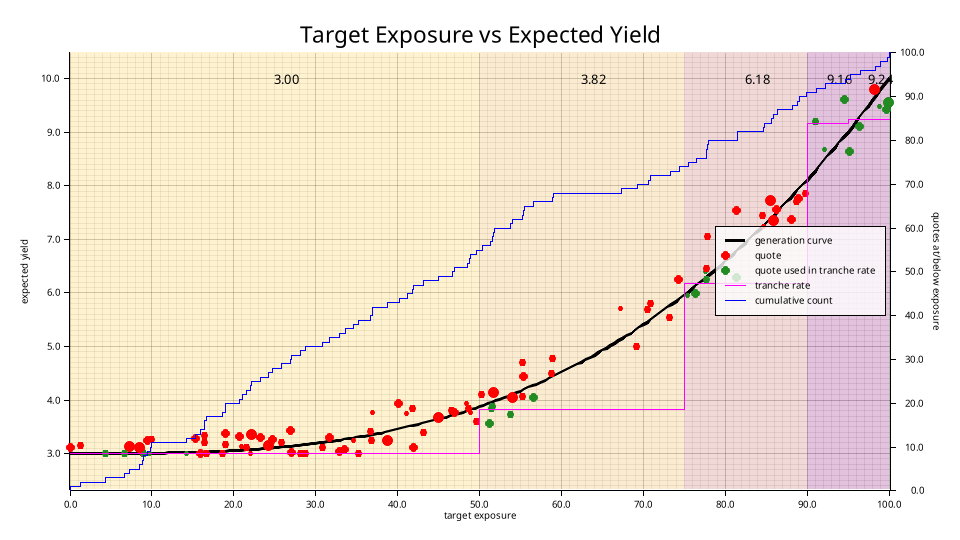
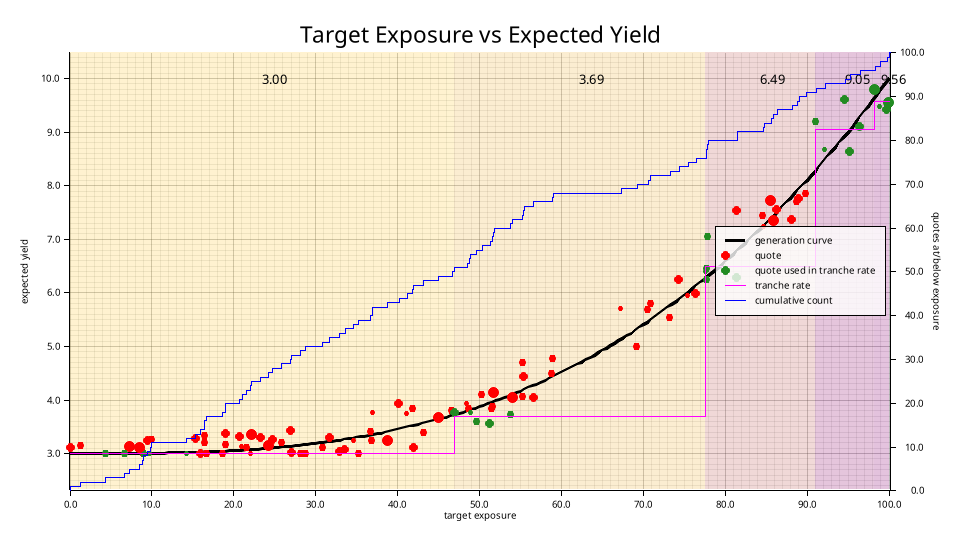
full utilization wip

diff --git a/src/tranche.rs b/src/tranche.rs
@@ -13,82 +13,63 @@ pub struct TrancheOrder {
     pub sample: Vec<Quote>,
 }
 
-/// Nominal band edges as fractions of the exposure axis, mortgage-style:
-/// a fat bottom tranche (the safe 50%), then progressively smaller,
-/// riskier tranches toward the top — on round numbers (50/25/15/5/5). The
-/// former top tranche (90-100) is now split in half (90-95/95-100).
+/// Tranche boundaries as fractions of *total accepted liquidity*
+/// (`sum of every quote's size`), mortgage-style: a fat bottom tranche
+/// (the safe 50% of capital), then progressively smaller, riskier
+/// tranches toward the top (50/25/15/5/5). There's no absolute/global
+/// cap — the boundary nominally at fraction `f` always has exactly `f` of
+/// total liquidity below it (protecting it) and `1 - f` above it (at risk
+/// first, in a loss), no matter how much total liquidity there actually
+/// is.
 const BAND_FRACTIONS: [f64; 6] = [0.0, 0.5, 0.75, 0.9, 0.95, 1.0];
-
-/// A 25-wide band wants at least this much total order size claimed
-/// before it's considered "filled".
-const BASE_MIN_SIZE: f64 = 10.0;
-const BASE_WIDTH: f64 = 25.0;
 
 /// A band's rate is priced off (at most) this many of its cheapest
 /// claimed orders.
 const RATE_SAMPLE_SIZE: usize = 5;
 
-/// How much total order size a band of the given nominal width should
-/// require — scaled down for narrower bands so a thin tranche (e.g. a
-/// 5-wide slice) doesn't have to raid most of the axis just to fill a
-/// quota sized for a much wider band.
-fn min_size_for_width(width: f64) -> f64 {
-    (BASE_MIN_SIZE / BASE_WIDTH * width).max(0.05)
-}
-
 /// Splits the exposure axis into tranche bands (per `BAND_FRACTIONS`)
 /// computed from `history`'s quotes, covering the full
 /// `[EXPOSURE_MIN, EXPOSURE_MAX]` range with no gaps or overlaps.
 ///
-/// Bands start at their nominal (fixed) width. A band short on claimed
-/// order size widens rightward, absorbing not-yet-claimed quotes in
-/// exposure order, until its claimed quotes' sizes sum to at least
-/// `min_size_for_width` of its *nominal* width (or it runs out of quotes)
-/// — each quote is claimed by exactly one band. A band's rate is the mean
-/// `expected_yield` of the (up to `RATE_SAMPLE_SIZE`) cheapest quotes it
-/// claimed.
+/// A single forward pass over quotes sorted by `target_exposure`: walk
+/// cumulative `size` and cut a band as soon as that running total crosses
+/// its fraction of total liquidity. Because the fractions sum to 1.0 and
+/// liquidity is monotonic, every band lands on (essentially) exactly its
+/// target share — no widening or shortfall handling needed. A band's rate
+/// is the mean `expected_yield` of the (up to `RATE_SAMPLE_SIZE`)
+/// cheapest quotes it claimed.
 pub fn compute_tranches(history: &QuoteHistory) -> Vec<TrancheOrder> {
     let mut quotes: Vec<_> = history.quotes.iter().collect();
     quotes.sort_by(|a, b| a.target_exposure.partial_cmp(&b.target_exposure).unwrap());
 
-    let span = EXPOSURE_MAX - EXPOSURE_MIN;
-    let edges: Vec<f64> = BAND_FRACTIONS
-        .iter()
-        .map(|f| EXPOSURE_MIN + f * span)
-        .collect();
-    let band_count = edges.len() - 1;
+    let total_liquidity: f64 = quotes.iter().map(|q| q.size).sum();
+    let liquidity_edges: Vec<f64> = BAND_FRACTIONS.iter().map(|f| f * total_liquidity).collect();
+    let band_count = liquidity_edges.len() - 1;
 
     let mut tranches = Vec::with_capacity(band_count);
     let mut attachment = EXPOSURE_MIN;
     let mut claimed = 0usize;
+    let mut cumulative_size = 0.0;
 
     for band in 0..band_count {
         let is_last = band == band_count - 1;
-        let size_cap = min_size_for_width(edges[band + 1] - edges[band]);
+        let liquidity_target = liquidity_edges[band + 1];
 
         let mut end = claimed;
-        let mut detachment = if is_last {
-            EXPOSURE_MAX
+        if is_last {
+            end = quotes.len();
         } else {
-            edges[band + 1].max(attachment)
-        };
-        let mut claimed_size = 0.0;
-
-        // Claim everything already within the nominal band.
-        while end < quotes.len() && quotes[end].target_exposure < detachment {
-            claimed_size += quotes[end].size;
-            end += 1;
-        }
-        // Short on size: widen rightward until we have enough, or run out.
-        if !is_last {
-            while claimed_size < size_cap && end < quotes.len() {
-                claimed_size += quotes[end].size;
-                detachment = quotes[end].target_exposure.max(detachment);
+            while cumulative_size < liquidity_target && end < quotes.len() {
+                cumulative_size += quotes[end].size;
                 end += 1;
             }
-        } else {
-            end = quotes.len();
         }
+
+        let detachment = if end < quotes.len() {
+            quotes[end].target_exposure
+        } else {
+            EXPOSURE_MAX
+        };
 
         let claimed_quotes = &quotes[claimed..end];
         let mut by_yield: Vec<_> = claimed_quotes.to_vec();
